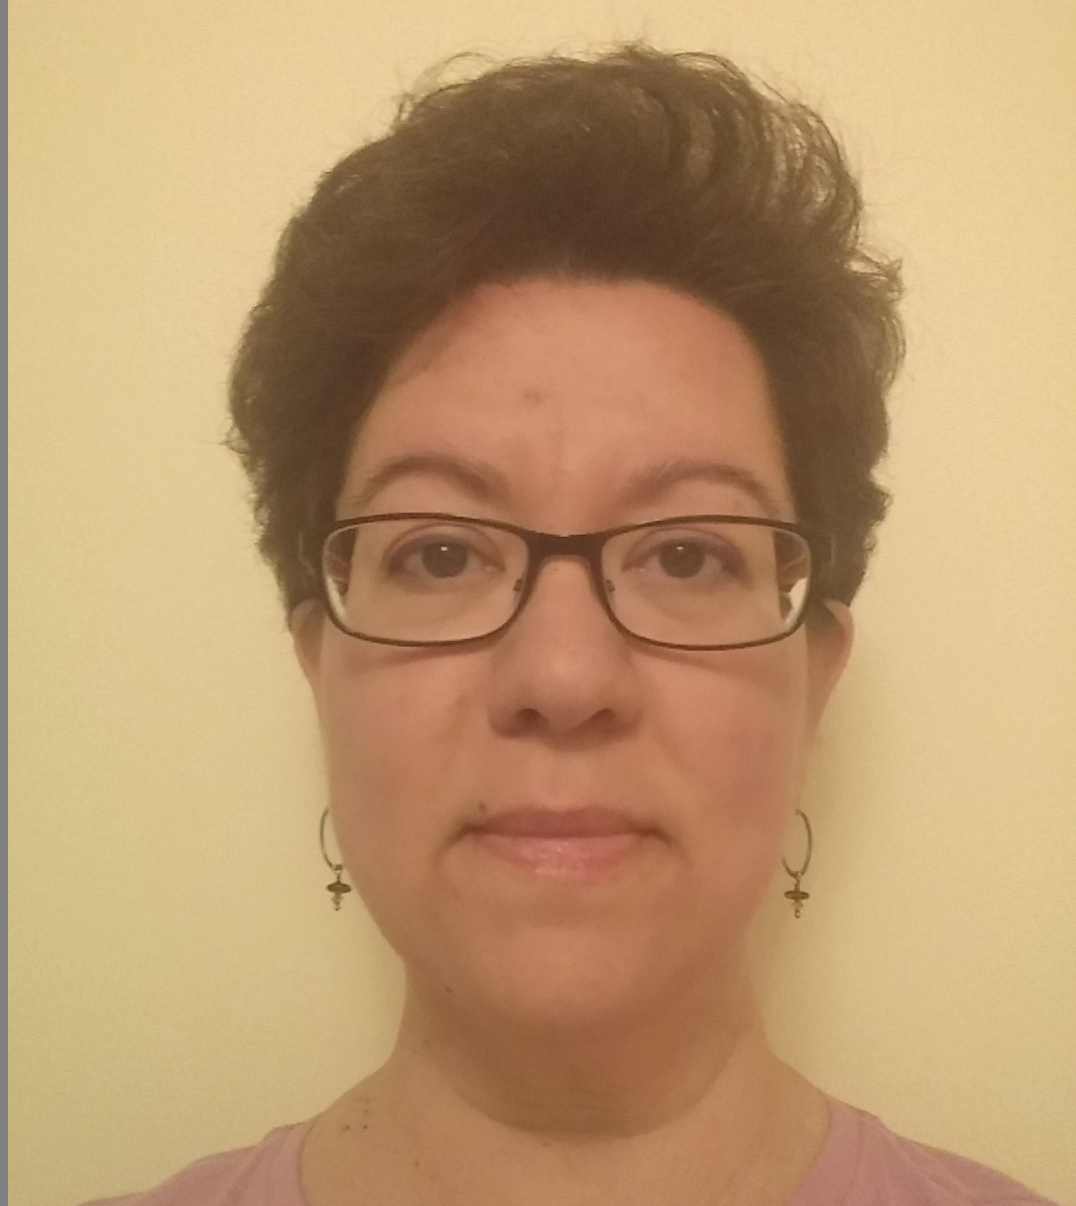
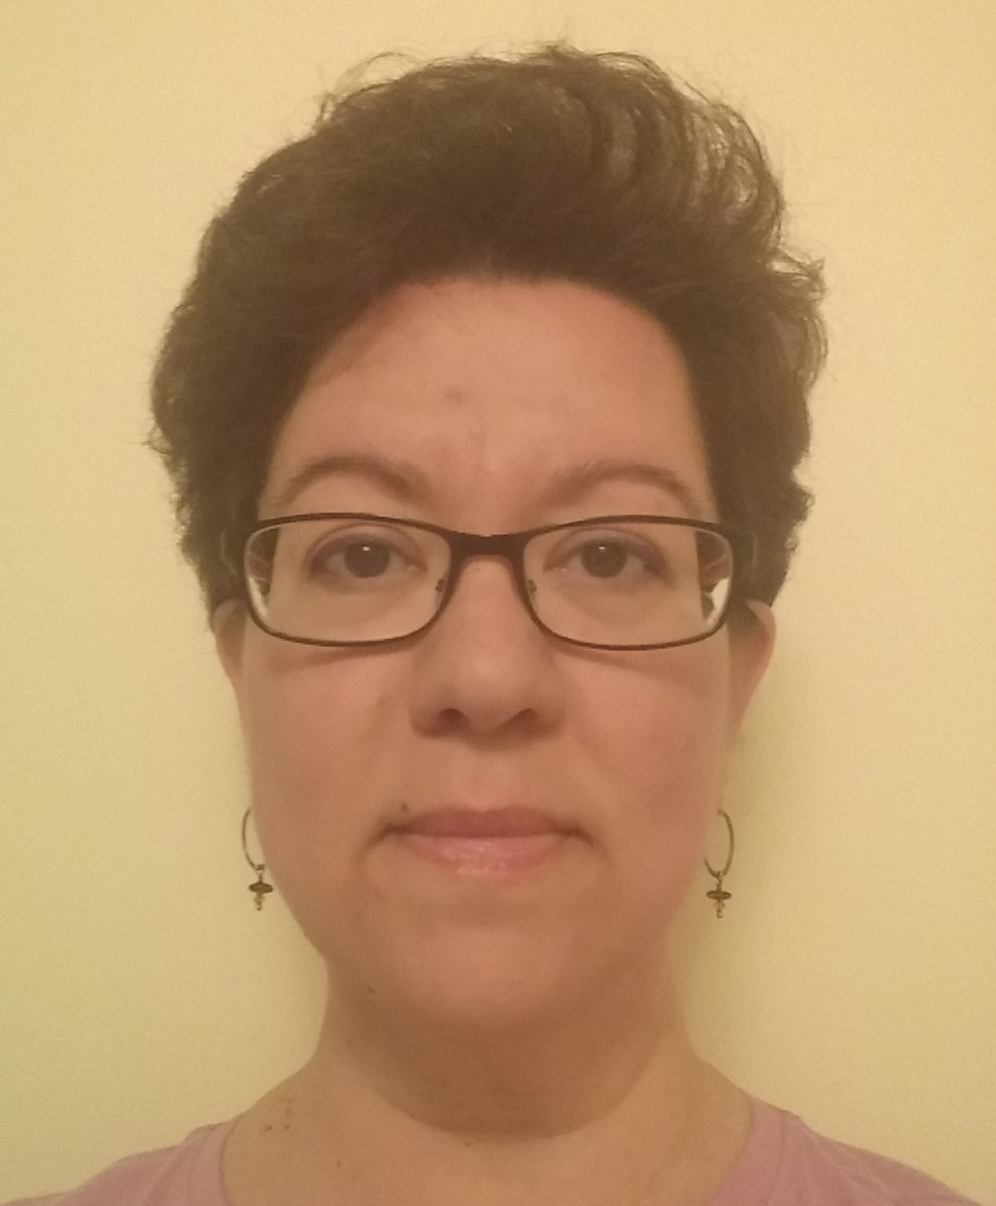
cleaned up links; added linkedIn & github links; began personal styling

diff --git a/assets/css/style.css b/assets/css/style.css
@@ -24,12 +24,7 @@ body {
     flex-direction: column;
 }
 
-h1, h4, h5, h6 {
-    font-family: 'Georgia', Times, 'Times New Roman', serif;
-}
-
 h2 {
-    font-family: 'Georgia', Times, 'Times New Roman', serif;
     color: #4aaaa5;
     font-size: 25px;
     font-weight: bold;
@@ -38,8 +33,7 @@ h2 {
 }
 
 h3 {
-    font-family: 'Georgia', Times, 'Times New Roman', serif;
-    color: #ffffff;
+    color: #f5f5f5;
     background-color: #4aaaa5;
     font-size: 20px;
 }
@@ -49,14 +43,14 @@ h3 {
 header {
     width: 100%;
     text-align: center;
-    background:#ffffff;
+    background: #f5f5f5;
     color: #777777;
-    border-bottom: 2px solid #cccccc;
+    border-bottom: 2px solid #4aaaa5;
 }
 
 nav {
     width: 940px;
-    height: 80px;
+    height: 60px;
     margin: 0 auto;
     position: relative;
 }
@@ -64,10 +58,10 @@ nav {
 #nav_name {
     position: absolute;
     left: 0;
-    font-size: 40px;
+    font-size: 30px;
     background: #4aaaa5;
-    color: #ffffff;
-    padding: 20px;
+    color: #f5f5f5;
+    padding: 15px;
     letter-spacing: 1px;
 }
 
@@ -81,12 +75,21 @@ li {
     float: left;
 }
 
+li span {
+    display: block;
+    font-weight: bold;
+    color: #777777;
+    text-shadow: 4px 4px 12px #40928e;
+    height: 60px;
+    padding: 20px 10px;
+}
+
 li a {
     display: block;
     color: #777777;
     text-decoration: none;
-    height: 80px;
-    padding: 30px 10px;
+    height: 60px;
+    padding: 20px 10px;
 }
 
 li a:visited {
@@ -95,13 +98,13 @@ li a:visited {
 
 li a:hover {
     background-color: #4aaaa5;
-    color:#ffffff;
+    color:#c0c0c0;
 }
 
 /* general formatting for center section of all pages */
 
 section {
-    background:#ffffff;
+    background:#f5f5f5;
     color: #777777;
     width: 940px;
     margin: 30px auto;
@@ -114,12 +117,16 @@ section {
 
 .image-left {
     float: left;
-    padding: 30px 5px 5px 0px;
-    margin-right: 20px;
+    border: 1px solid #666666;
+    box-shadow: 3px 3px 6px #777777;
+    border-radius: 50%;
+    margin-top: 25px;
+    margin-right: 25px;
+    margin-bottom: 5px;
 }
 
 .wrap-text {
-    padding: 30px 0px;
+    padding-top: 25px;
     line-height: 30px;
 }
 
@@ -141,8 +148,8 @@ input[type=text], select, textarea {
 }
 
 input[type=submit] {
-    background-color:#4aaaa5;
-    color: white;
+    background-color: #4aaaa5;
+    color: #f5f5f5;
     padding: 20px;
     border: none;
     border-radius: 4px;
@@ -160,14 +167,14 @@ input[type=submit]:hover {
 /* formatting for Portfolio gallery page */
 
 #project-container {
-    background-color: #ffffff;
+    background-color: #f5f5f5;
     width: 940px;
     height: 860px;
 }
 
 .row {
     position: relative;
-    background-color: #ffffff;
+    background-color: #f5f5f5;
     left: 0px;
 }
 
@@ -231,14 +238,17 @@ input[type=submit]:hover {
 
 footer {
     width: 100%;
-    height: 50px;
+    height: 25px; /* Set the fixed height of the footer here */
+    line-height: 23px; /* Vertically center the text here (footer height-border) */
     text-align: center;
     font-size: 12px;
-    background-color:#666666;
-    color:lightgrey;
-    padding: 17px;
-    border-top: 5px solid #4aaaa5;
+    background-color: #777777;
+    color: #ccc;
+    border-top: 2px solid #40928e;
 }
+    /*
+    padding: 17px;
+}*/
 
 /* specific styles to support smaller screens */
 
@@ -309,7 +319,7 @@ footer {
     #nav_name {
         font-size: 40px;
         background: #4aaaa5;
-        color: #ffffff;
+        color: #f5f5f5;
         padding: 20px;
         letter-spacing: 1px;
     }

diff --git a/index.html b/index.html
@@ -15,10 +15,10 @@
 
     <header>
         <nav>
-            <a href="./index.html"><h1 id="nav_name">Adriana Doherty</h1></a>
+            <h1 id="nav_name">Adriana Doherty</h1>
             <ul>
                 <!-- need to figure out how to add dividers between list items -->
-                <li><a href="./index.html">About</a></li>
+                <li><span>About</span></li>
                 <li><a href="./portfolio.html">Portfolio</a></li>
                 <li><a href="./contact.html">Contact</a></li>
             </ul>
@@ -26,12 +26,21 @@
     </header>
 
     <section>
-        <h2>About Me</h2>
+        <h2>About Me
+            <a href="https://www.linkedin.com/in/adrianadoherty" target="_blank">
+                <img align="right" src="./assets/images/2000px-Linkedin_icon.png" height="30px" alt="Link to Adriana Doherty's LinkedIn page">
+            </a>
+            <a href="https://www.github.com/dridoherty" target="_blank">
+                <img align="right" src="./assets/images/Octicons-mark-github.svg" height="30px" alt="Link to Adriana Doherty's GitHub">
+            </a>
+        </h2>
+        
         <article class="clearfix">
             <!-- need an actual photo here ... -->
             <img class="image-left" src="./assets/images/ADPhoto.png" width=200 alt="Adriana Doherty">
-            <p class="wrap-text">Growing up surrounded by machines and technology, I have always been eager to learn how things work and how to best utilize technology to enhance our lives. I had a successful career in software engineering building enterprise software for corporate treasury management, managing development projects & teams and eventually leading the software development department of a mutilinational corporation. I left software development to concentrate on raising my two amazing sons, who inspire me every day to look at the world around us with fresh eyes.</p>
-            <p style="line-height:30px">Even while home, I found myself utilizing my skills to help local organizations with their technology needs, learning some VB, and basic HTML & CSS along the way. After a second career, this time in providing home technology and automation solutions, I am eager to get back to my days of creating software. Rutgers Coding Bootcamp is my first step in realizing that goal.</p>  
+            <p class="wrap-text">I have always been eager to figure out how things work and how to best utilize technology to enhance our lives. I had a successful career in software engineering building enterprise software for corporate treasury management, managing development projects &amp; teams and eventually leading the software development department of a mutilinational corporation.</p>
+            <p class="wrap-text">I left software development to concentrate on raising my two amazing sons, who move me to look at the world with fresh eyes.  Even while home, I found myself utilizing my skills to help local organizations with their technology needs, learning some VB, and basic HTML &amp; CSS along the way.</p>
+            <p class="wrap-text">After a second career, this time in providing home technology and automation solutions, I am eager to get back to my days of creating software. Rutgers Coding Bootcamp is my first step in realizing that goal.</p>  
         </article>
     </section>
 

diff --git a/portfolio.html b/portfolio.html
@@ -15,11 +15,11 @@
 
     <header>
         <nav>
-            <a href="./index.html"><h1 id="nav_name">Adriana Doherty</h1></a>
+            <h1 id="nav_name">Adriana Doherty</h1>
             <ul>
                 <!-- need to figure out how to add dividers between list items -->
                 <li><a href="./index.html">About</a></li>
-                <li><a href="./portfolio.html">Portfolio</a></li>
+                <li><span>Portfolio</span></li>
                 <li><a href="./contact.html">Contact</a></li>
             </ul>
         </nav>
@@ -27,7 +27,14 @@
 
     <section id="project-container">
     
-        <h2>Portfolio</h2>
+        <h2>Portfolio
+            <a href="https://www.linkedin.com/in/adrianadoherty" target="_blank">
+                <img align="right" src="./assets/images/2000px-Linkedin_icon.png" height="30px" alt="Link to Adriana Doherty's LinkedIn page">
+            </a>
+            <a href="https://www.github.com/dridoherty" target="_blank">
+                <img align="right" src="./assets/images/Octicons-mark-github.svg" height="30px" alt="Link to Adriana Doherty's GitHub">
+            </a>
+        </h2>
 
         <div class="row row1">
             <a href="https://dridoherty.github.io/Word-Guess-Game" target="_blank"><img class="project-image project-image-left project-image-link" src="./assets/images/HW-Word-Guess-Game.png" alt="Word-Guess-Game"></a>

diff --git a/contact.html b/contact.html
@@ -15,19 +15,26 @@
 
     <header>
         <nav>
-            <a href="./index.html"><h1 id="nav_name">Adriana Doherty</h1></a>
+            <h1 id="nav_name">Adriana Doherty</h1>
             <ul>
                 <!-- need to figure out how to add dividers between list items -->
                 <li><a href="./index.html">About</a></li>
                 <li><a href="./portfolio.html">Portfolio</a></li>
-                <li><a href="./contact.html">Contact</a></li>
+                <li><span>Contact</span></li>
             </ul>
         </nav>
     </header>
         
     <section>
          
-        <h2>Contact Form</h2>
+        <h2>Contact Form
+            <a href="https://www.linkedin.com/in/adrianadoherty" target="_blank">
+                <img align="right" src="./assets/images/2000px-Linkedin_icon.png" height="30px" alt="Link to Adriana Doherty's LinkedIn page">
+            </a>
+            <a href="https://www.github.com/dridoherty" target="_blank">
+                <img align="right" src="./assets/images/Octicons-mark-github.svg" height="30px" alt="Link to Adriana Doherty's GitHub">
+            </a>
+        </h2>
 
         <form id="ContactForm">
             <label for="formname">Name</label>
